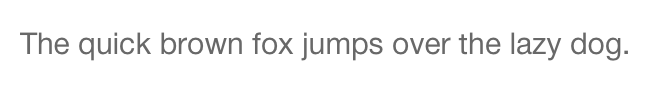
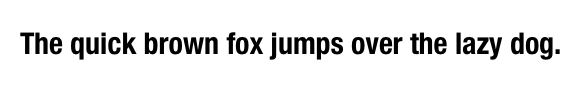
docs: correct image for table rowtitle

Changed region(s): [[0.0309, 0.3721, 0.9897, 0.7209]]

diff --git a/documentation/basics/typography/typography-de.md b/documentation/basics/typography/typography-de.md
@@ -73,14 +73,14 @@ Dieser Stil hat die folgende Zustände:
 #### Code Spezifikation
 * [SBB Angular Component Library](https://sbb-angular.app.sbb.ch/business/introduction/typography)
 
-### 2.8 Untertitel
+### 2.8 Tabellenheader Untertitel
 ![Darstellung des Stils eines Tabellenuntertitel](https://raw.githubusercontent.com/sbb-design-systems/design-system-webapp-documentation/master/documentation/basics/typography/images/Typo_Table_Subtitle.png 'class: image')
 
 #### Spezifikation
 * [Design](https://www.sketch.com/s/271524a1-2f86-4c84-9491-671e5ccd927f/a/wdZKEA#Inspector)
 * [SBB Angular Component Library](https://sbb-angular.app.sbb.ch/business/introduction/typography)
 
-### 2.9 Zeilentitel
+### 2.9 Tabellenzeilentitel
 ![Darstellung des Stils einer Tabellenüberschrift](https://raw.githubusercontent.com/sbb-design-systems/design-system-webapp-documentation/master/documentation/basics/typography/images/Typo_Table_Rowtitle.png 'class: image')
 
 #### Spezifikation
